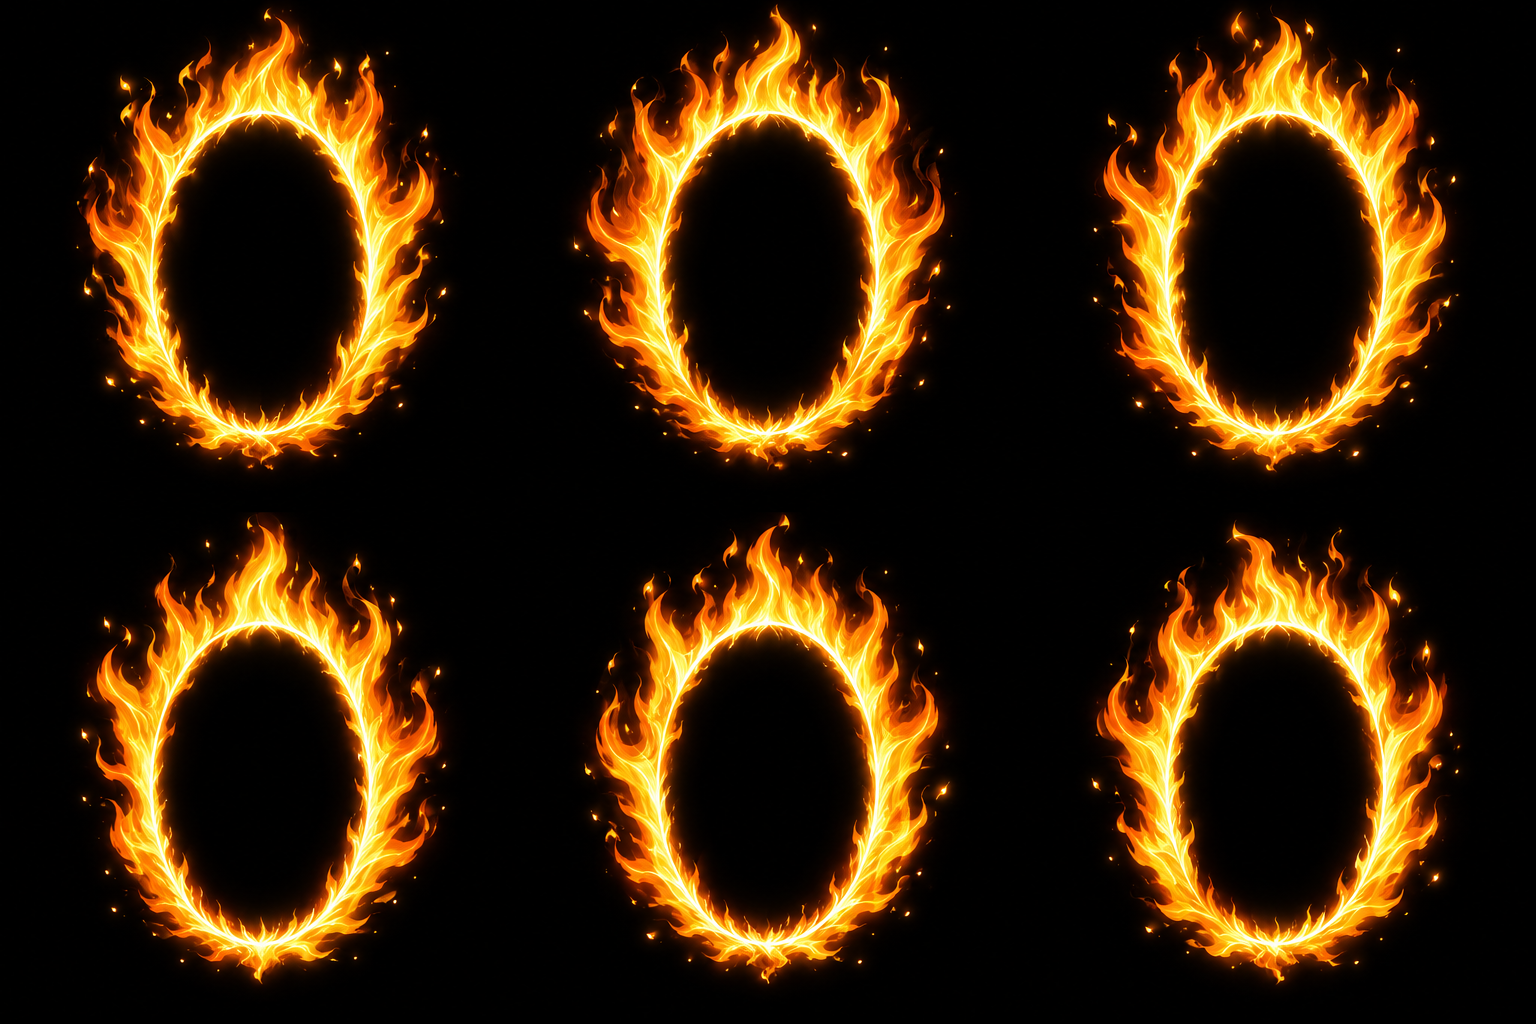
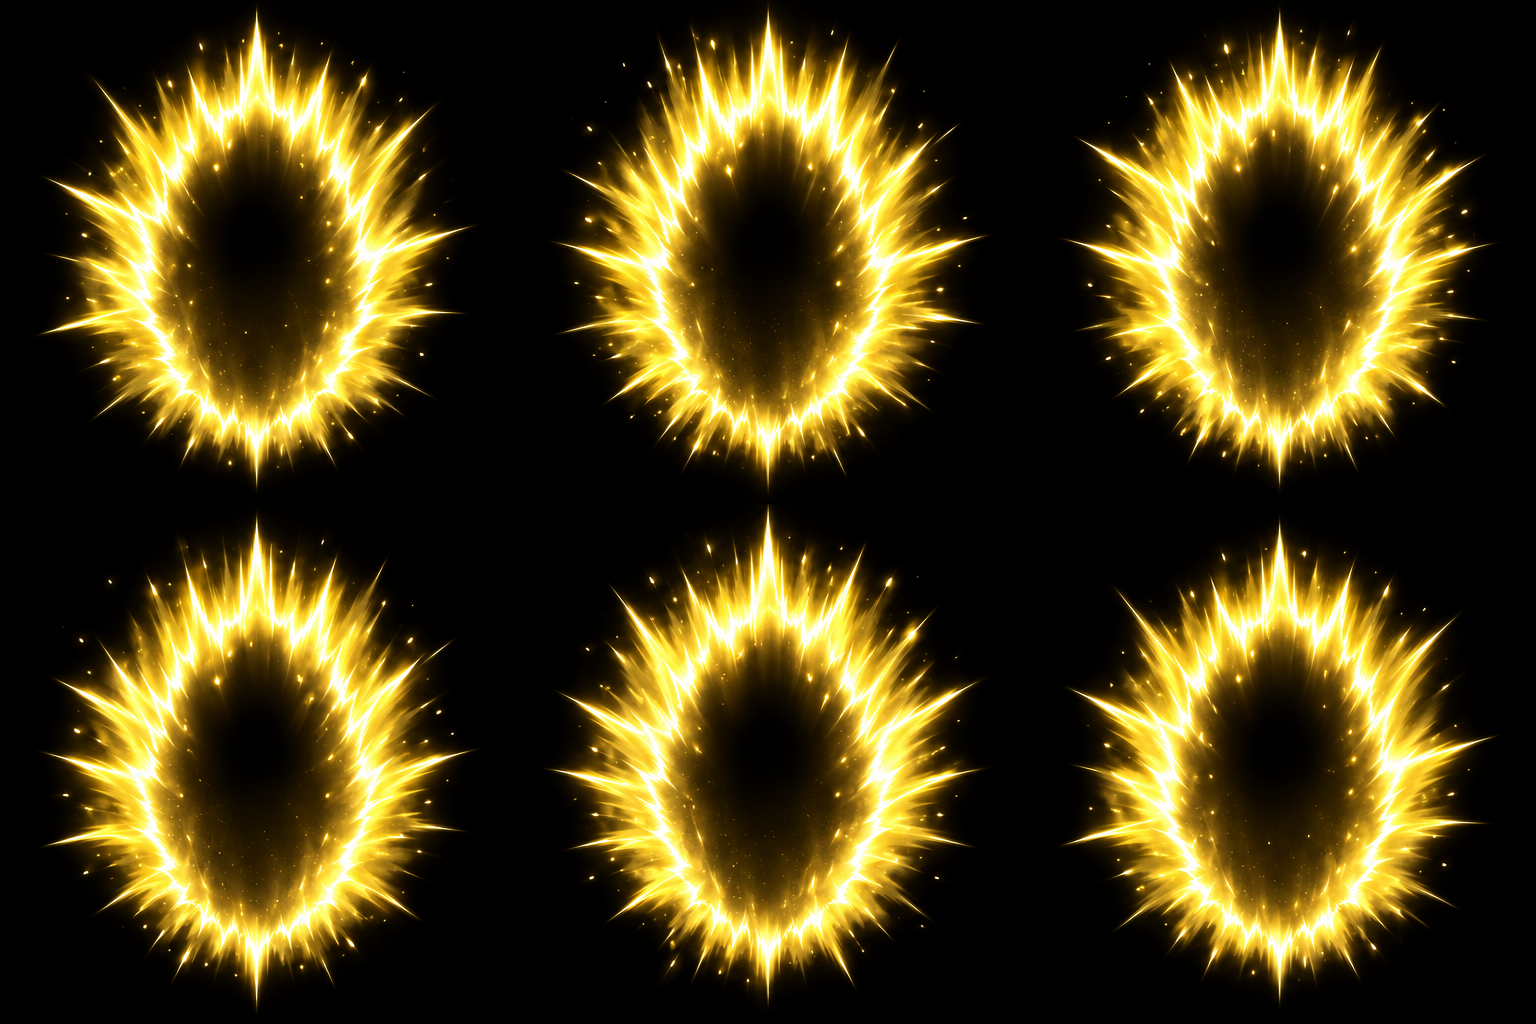
Aura do POW no estilo do print: picos de energia dourada
Repintada pelo Codex com o print do matheus como referência (arte original):
oval de picos dourados com contorno branco-quente no lugar do anel de fogo.

diff --git a/src/game/powReadyAura.ts b/src/game/powReadyAura.ts
@@ -1,13 +1,13 @@
 import {freeImage} from './spriteCache';
 
 /**
- * POW ready (bar full, not yet used): an oval of golden fire around the fighter that flickers and pulses, as in
+ * POW ready (bar full, not yet used): an oval of golden energy spikes around the fighter that flickers and pulses, as in
  * DDTank (matheus, 21/10/2026). Painted by Codex on black and cut by scripts/build-pow-aura.py into a strip of
  * FRAMES flicker frames of SIZE px with real alpha; the game only plays the strip and breathes its scale and light.
  */
 const SRC='/assets/combat/pow-ready-aura.png',FRAMES=6,SIZE=256,FRAME_MS=95;
 /** Drawn size around a 112 px combat fighter: wider than tall, so the oval holds the head and the body lying behind it. */
-const WIDTH=190,HEIGHT=132;
+const WIDTH=180,HEIGHT=150;
 let image:HTMLImageElement|undefined;
 const motionPreference=typeof window!=='undefined'&&window.matchMedia?window.matchMedia('(prefers-reduced-motion: reduce)'):null;
 function sheet(){if(!image){if(typeof Image==='undefined')return undefined;image=new Image();image.decoding='async';image.src=SRC;}return image.complete&&image.naturalWidth?image:undefined;}
@@ -21,7 +21,7 @@ export function drawPowReadyAura(c:CanvasRenderingContext2D,x:number,y:number,ti
  const art=sheet();if(!art)return;
  const t=motionPreference?.matches?0:time,grow=Math.min(1,Math.max(0,(time-since)/260));
  const beat=Math.sin(t/300),scale=(.86+.14*grow)*(1+beat*.045),frame=Math.floor(t/FRAME_MS)%FRAMES;
- const w=WIDTH*scale,h=HEIGHT*scale,cx=x,cy=y-44;
+ const w=WIDTH*scale,h=HEIGHT*scale,cx=x,cy=y-40;
  c.save();c.globalAlpha*=grow*(.82+beat*.18);
  c.drawImage(art,frame*SIZE,0,SIZE,SIZE,cx-w/2,cy-h/2,w,h);
  c.restore();
